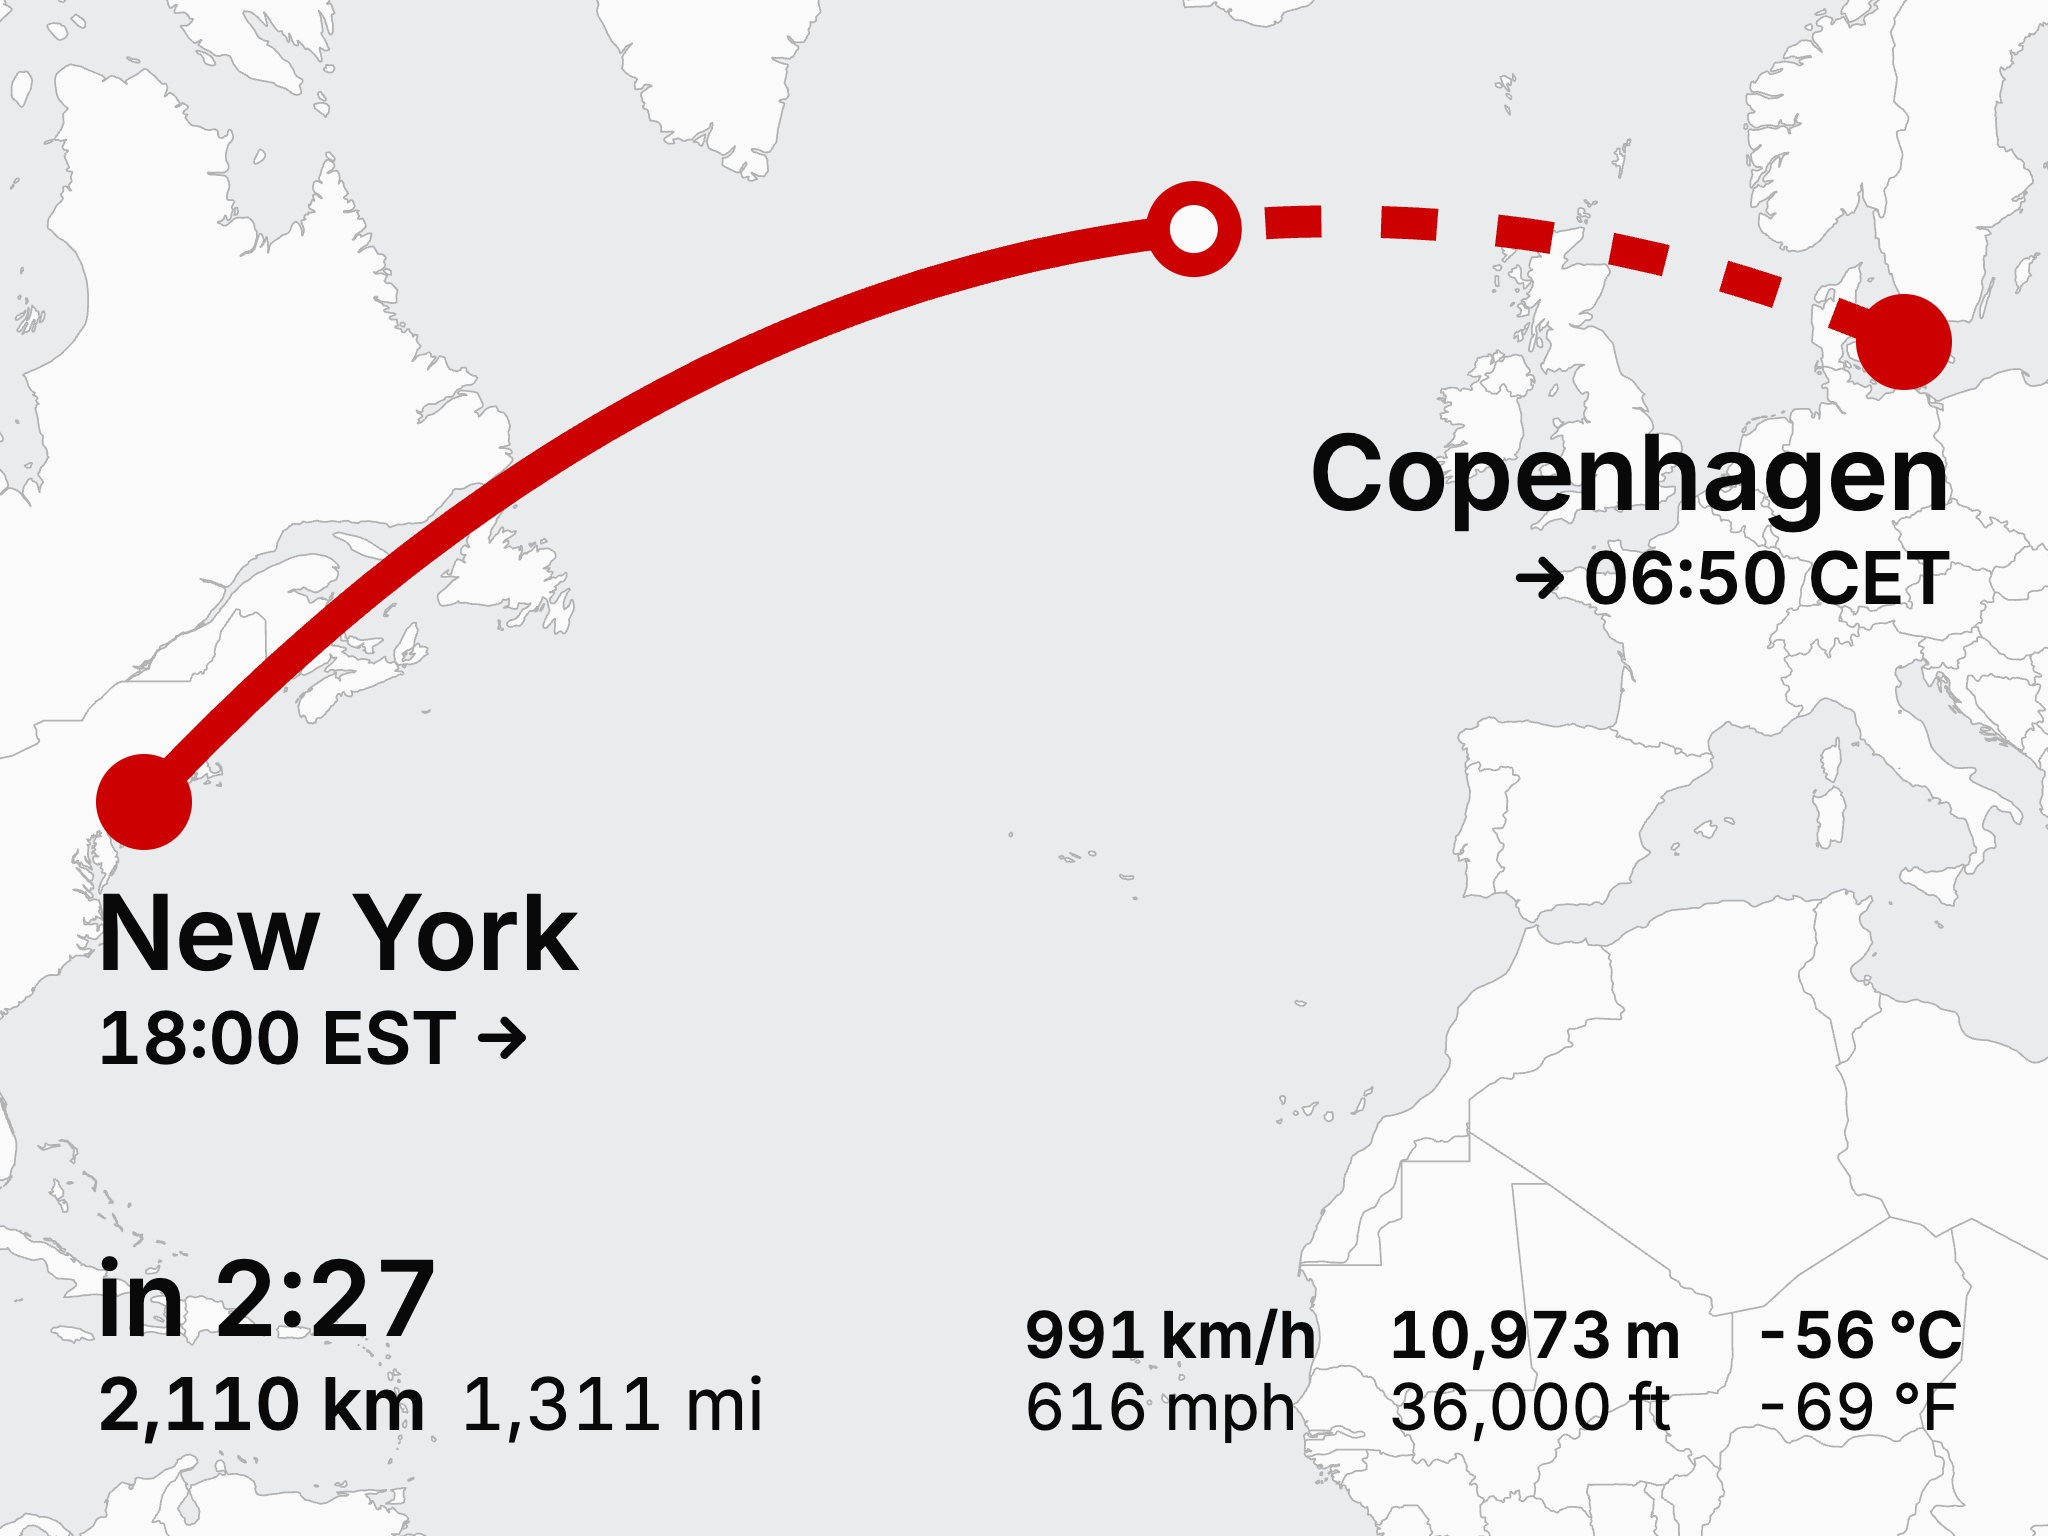
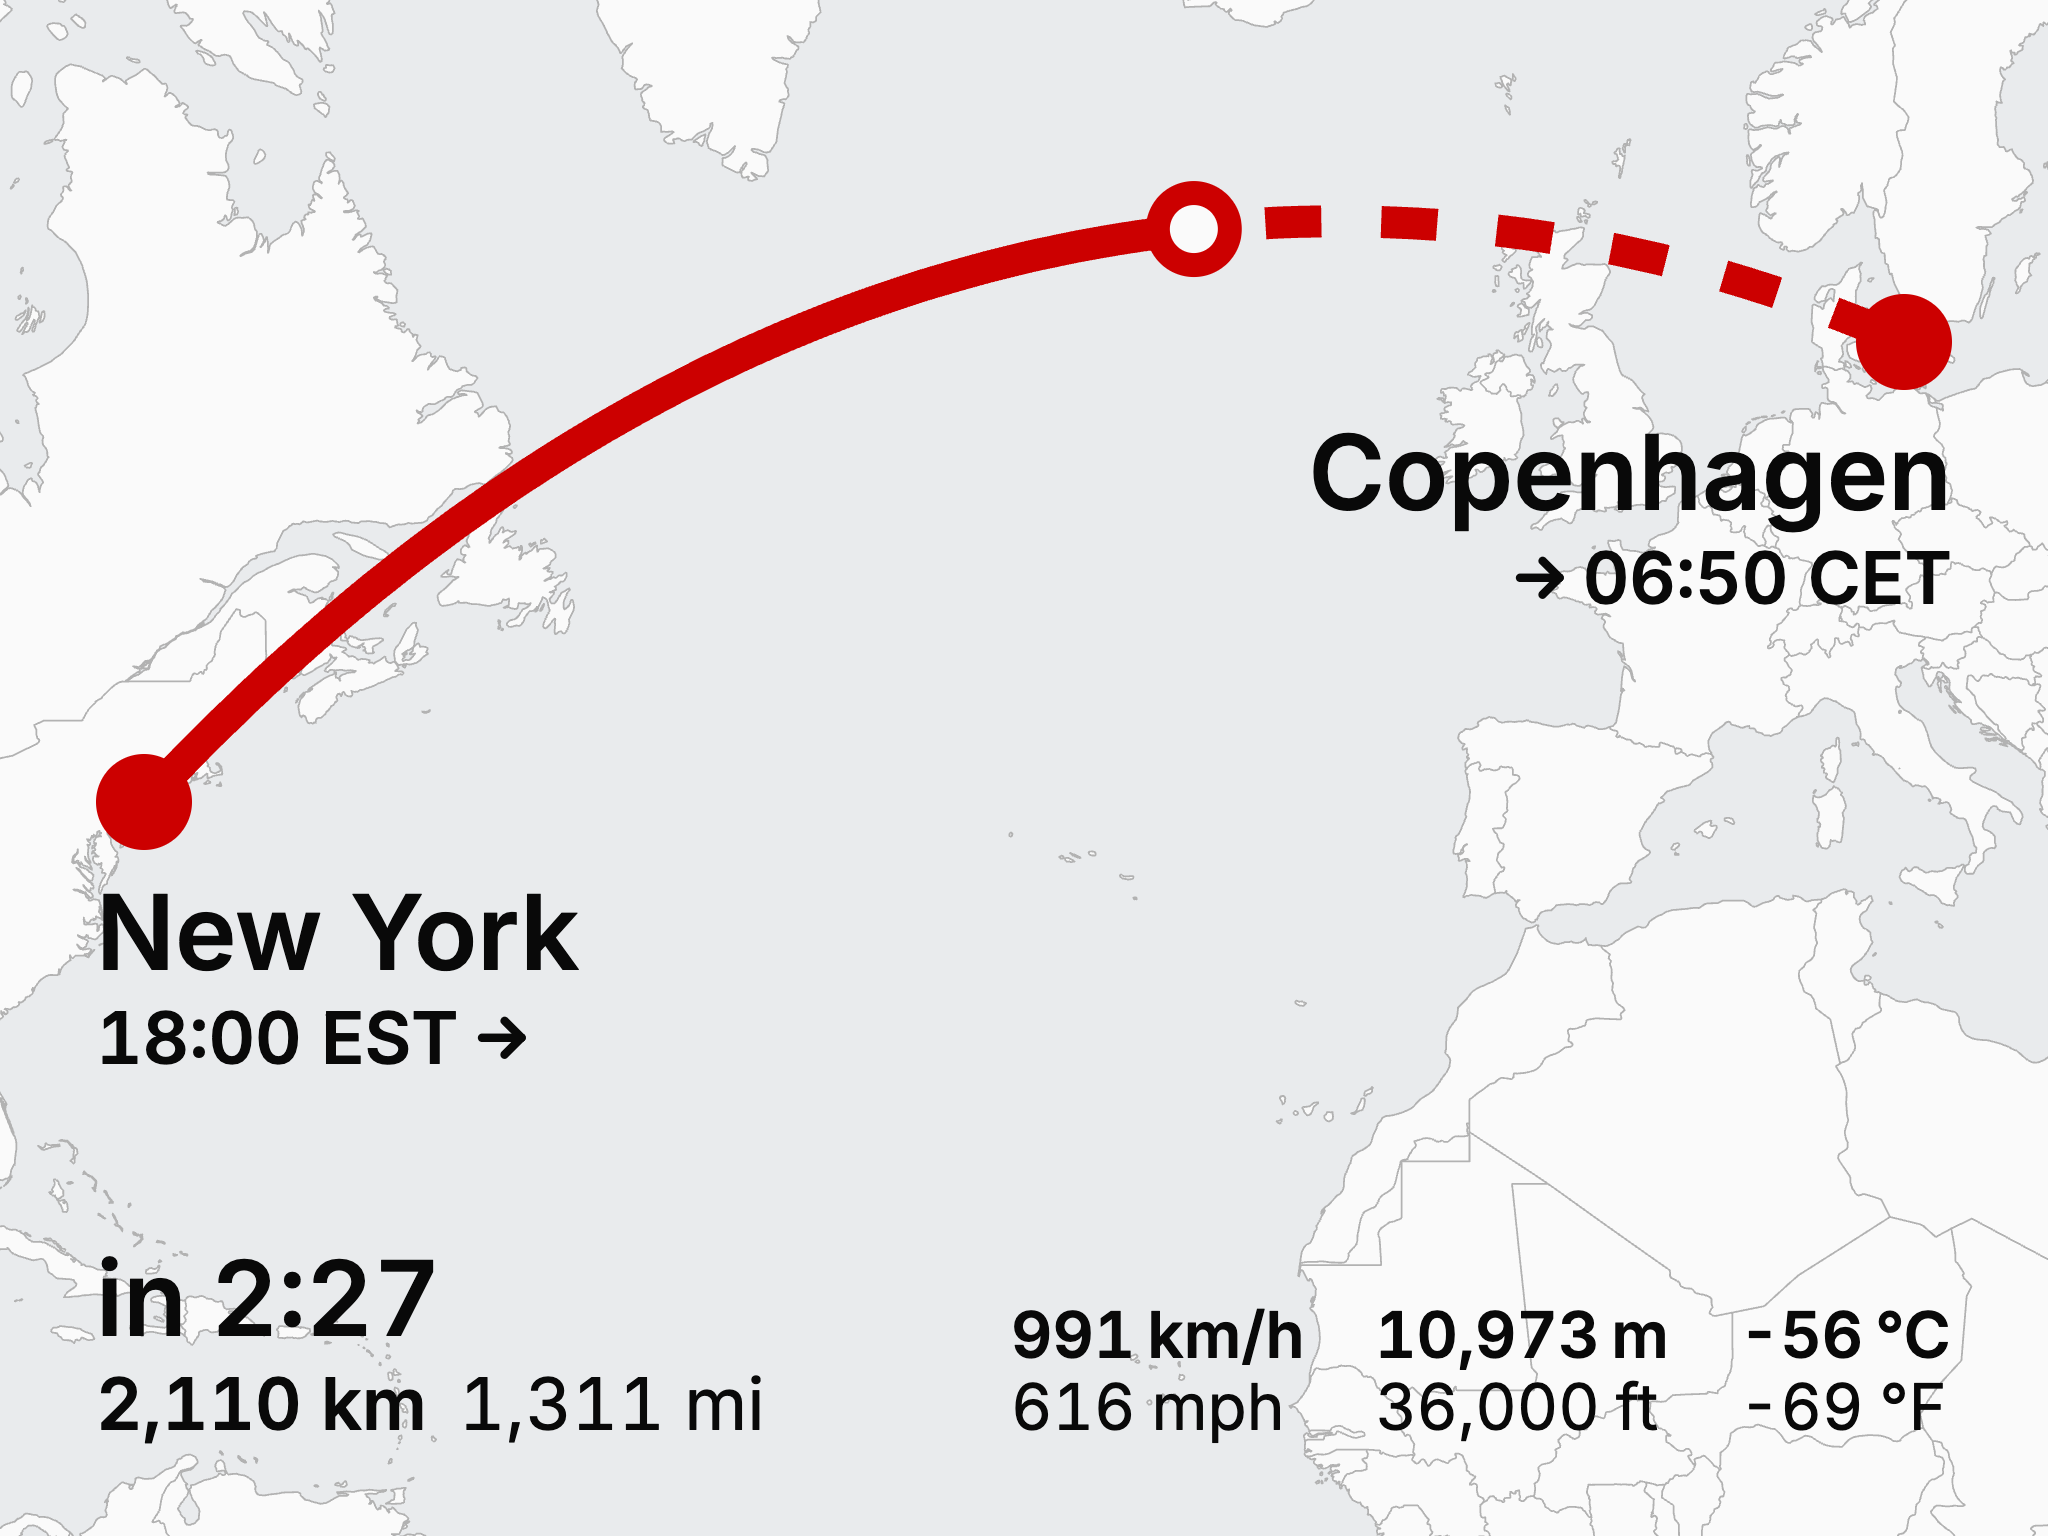
Update row temp cell, screens

Changed region(s): [[0.5, 0.8438, 0.8125, 0.9375], [0.8438, 0.8438, 0.9688, 0.9375]]

diff --git a/src/index.css b/src/index.css
@@ -160,7 +160,7 @@ body {
   --ink: var(--fp-color-main);
   --faded: color-mix(
     in srgb,
-    var(--fp-color-main) 10%,
+    var(--fp-color-main) 30%,
     var(--fp-color-background)
   );
 

diff --git a/src/lib/style.css b/src/lib/style.css
@@ -388,7 +388,7 @@
   }
 
   .row .conditions div:last-child {
-    width: 9.765625cqw;
+    width: 10.4cqw;
   }
 
   .column .conditions {
